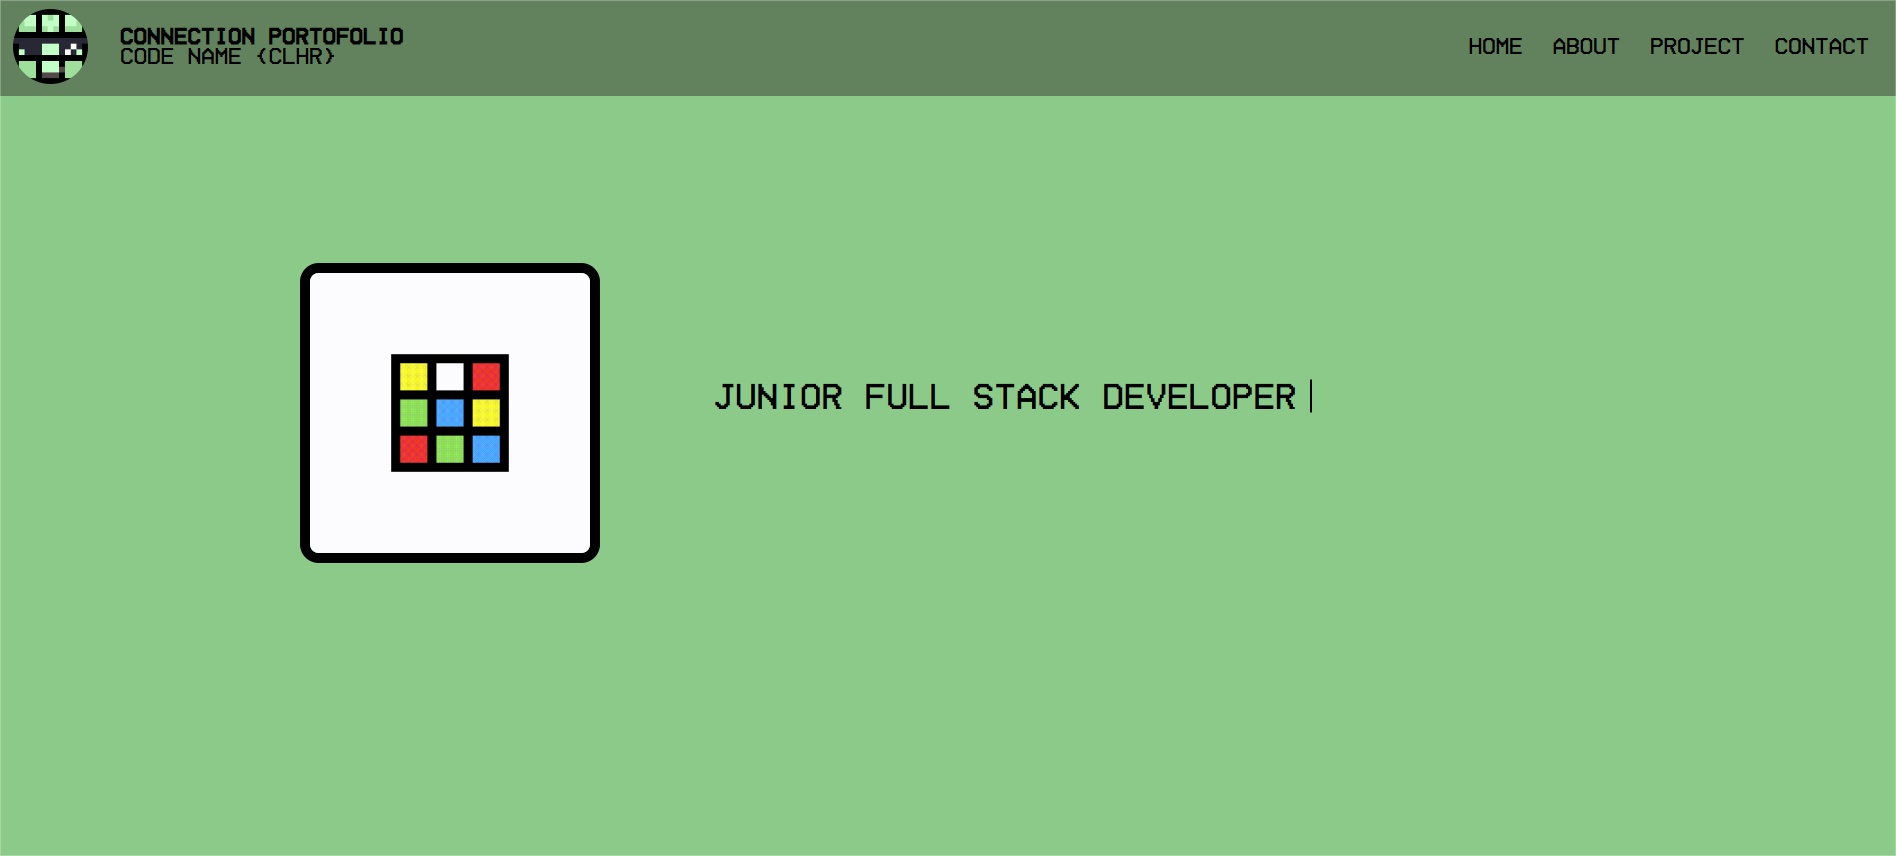
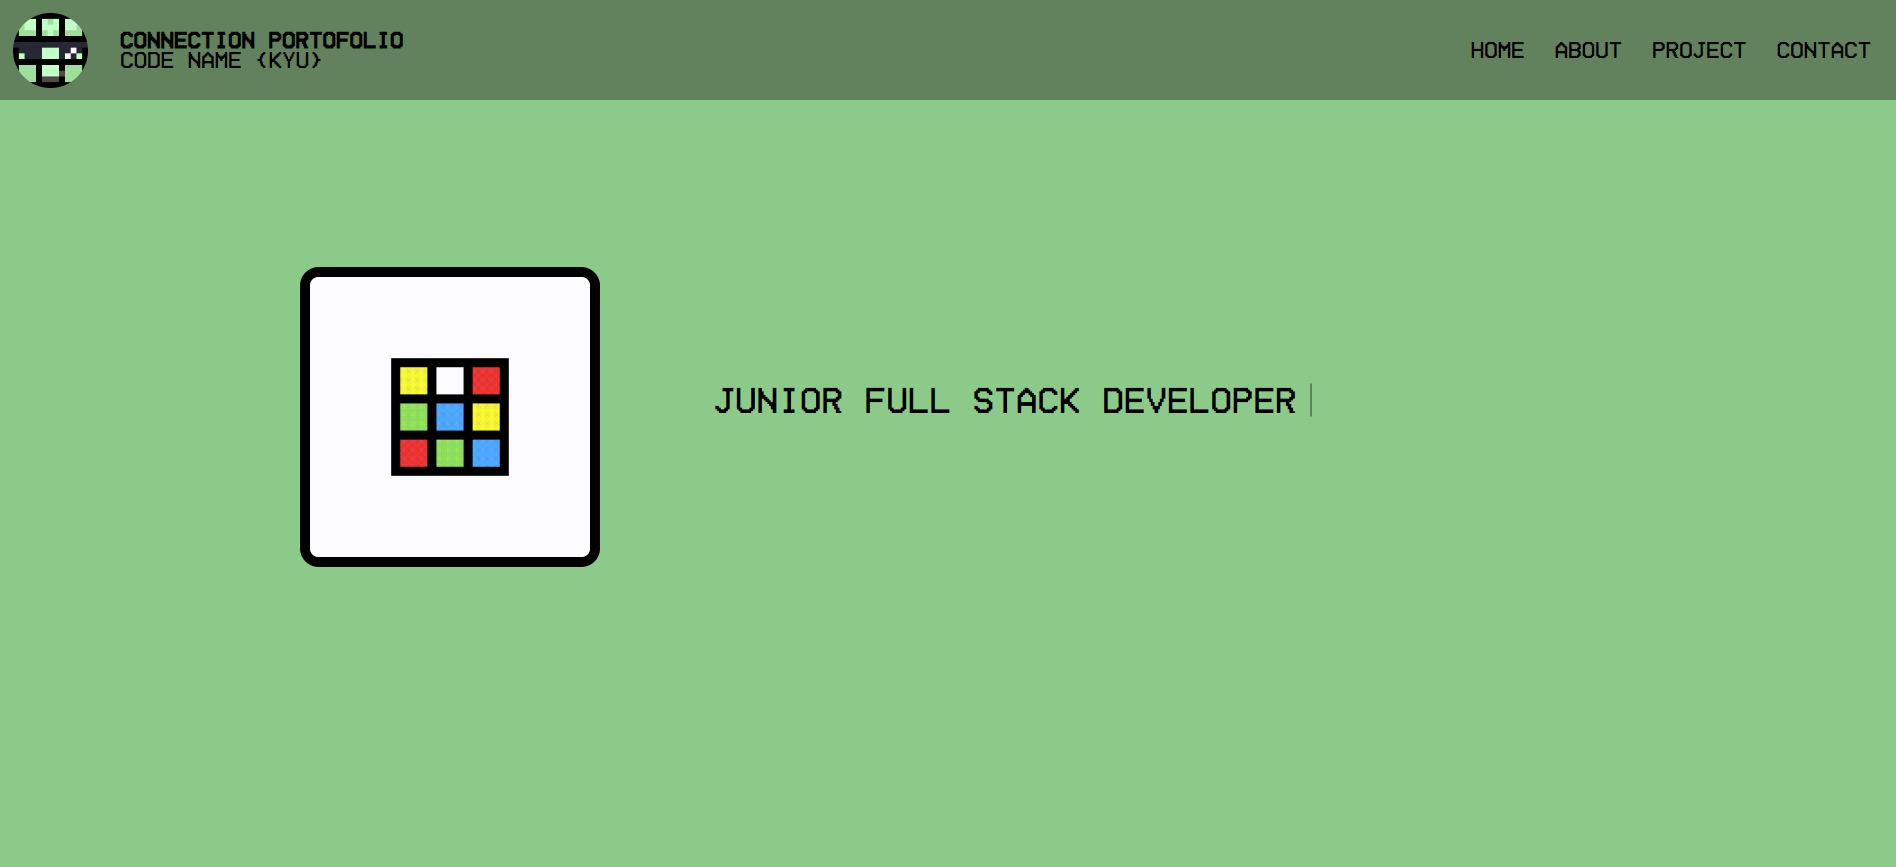
change project section

diff --git a/index.html b/index.html
@@ -28,7 +28,7 @@
                 <p>
                     <strong>Connection Portofolio</strong>
                     <br> 
-                    <span class="glitch" data-text="code name {clhr}">code name {clhr}</span>
+                    <span class="glitch" data-text="code name {kyu}">code name {kyu}</span>
                 </p>
             </aside>
             <section class="icon" id="icon-menu">
@@ -58,10 +58,11 @@
             <h1>Project</h1>
             <section class="container-grid">
                 <article class="card">
-                    <img src="/img/card-1.jpg" alt="card-1">
-                    <p>Game max2d
-                        <br><span>project pertama yang menjadi cikal bakal saya menjadi web sekaligus game developer</span>
+                    <img src="/img/card-7.png" alt="card-1">
+                    <p>Website Unit converter
+                        <br><span>Web unit converter untuk menkonversi satuan satuan umum yaitu panjang, berat, suhu dan waktu</span>
                     </p>
+                    <a class="link link-color" href="https://unit-converter-bice-xi.vercel.app/">Kunjungi↗</a>
                 </article>
                 <article class="card">
                     <img src="/img/card-2.png" alt="card-2">
@@ -82,11 +83,11 @@
                     </p>
                 </article>
                 <article class="card">
-                    <img src="img/card-5.png" alt="card-5">
-                    <p>Website interactive
-                        <br><span>Sebagai latihan saya juga html, css dan js. untuk saat ini fiturnya hanya to do list yang saat ini masih belum ada niatan untuk diupdate kedepanya</span>
+                    <img src="img/card-8.png" alt="card-5">
+                    <p>Website To Do List
+                        <br><span>Website To Do List, salah satu project yang cukup umum yang dibuat memakai bahasa pemograman html, css, js</span>
                     </p>
-                    <a class="link link-color" href="https://kyubiner.github.io/my_web.github.io/">Kunjungi↗</a>
+                    <a class="link link-color" href="https://to-do-list-iota-ochre.vercel.app/">Kunjungi↗</a>
                 </article>
                 <article class="card">
                     <img src="/img/card-6.png" alt="card-6">

diff --git a/style.css b/style.css
@@ -6,7 +6,7 @@
 }
 
 :root{
-    --primary-color: #C2FFC7; 
+    --primary-color: #a3eca9; 
     --secondary-color: #8bca88;
     --dark-color: rgba(98, 130, 93, 1);
     --super-dark-color: #526E48;
@@ -337,6 +337,7 @@ h1:hover{
     gap: 2.5rem;
     margin: 3rem;
 }
+
 .card p span {
     font-family: pixel;
     font-size: 12px;
@@ -604,5 +605,4 @@ footer {
     padding: 25px;
 }
 /* /contact */
-
 }
